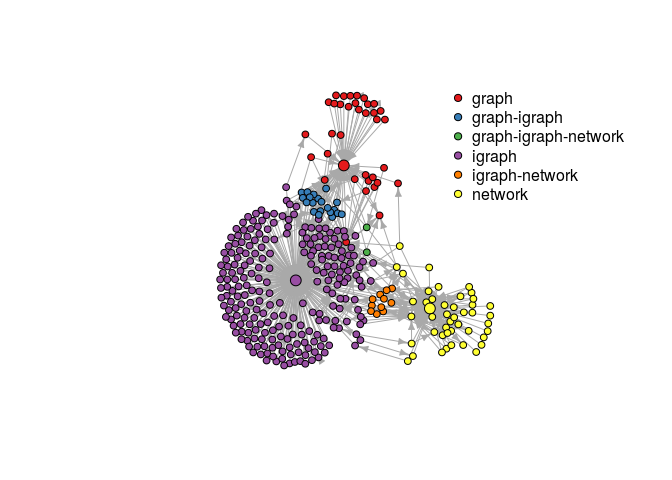
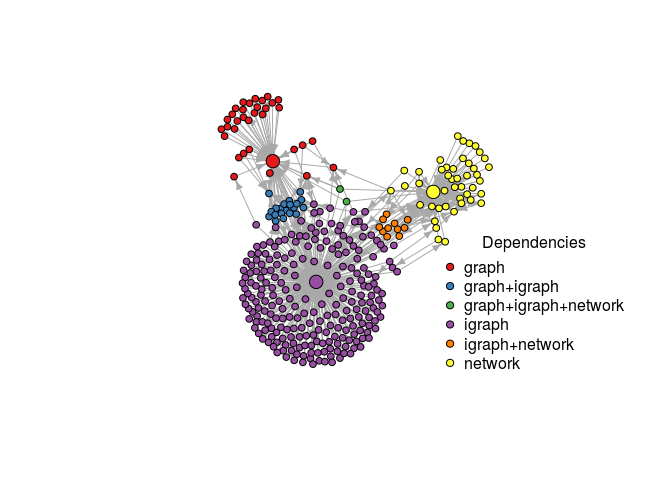
Done with README (fix #1)

Changed region(s): [[0.3125, 0.1875, 0.9375, 0.7812]]

diff --git a/README.md b/README.md
@@ -1,12 +1,12 @@
 Build and analyze network of CRAN packages
 ================
-2016-08-12 16:19:01
+2016-08-12 16:57:01
 
 [![Build Status](https://travis-ci.org/mbojan/pkgnet.png?branch=master)](https://travis-ci.org/mbojan/pkgnet) [![Build Status](https://ci.appveyor.com/api/projects/status/8jwpc9dn34xll00p?svg=true)](https://ci.appveyor.com/project/mbojan/pkgnet) [![rstudio mirror downloads](http://cranlogs.r-pkg.org/badges/pkgnet?color=2ED968)](http://cranlogs.r-pkg.org/) [![cran version](http://www.r-pkg.org/badges/version/pkgnet)](https://cran.r-project.org/package=pkgnet)
 
-Package `DESCRIPTION` files allows for specifying several types of inter-package relations. These include fields like Depends, Suggests, Enhances etc. This package allows for recovering graph structure based on these relations. Network representation of R repositories enables the user to explore the interconnected space of available R functionality while the developers or repository maintainers can quickly scan package forward and reverse dependencies.
+Package `DESCRIPTION` files allows for specifying several types of inter-package relations. These include fields like Depends, Suggests, Enhances etc. This package allows for recovering graph structure based on these relations. Network representation of R repositories enables the user to explore the interconnected space of available R functionality while the developers or repository maintainers can scan package forward and reverse dependencies etc.
 
-The main function `pkgnet` creates an igraph object of packages available in specified repository.
+The main function `pkgnet` creates an igraph object of packages available in specified repository containing all other fields from `available.packages` as vertex and edge attributes.
 
 Examples
 ========
@@ -21,13 +21,13 @@ g <- pkgnet("cran")
 summary(g)
 ```
 
-    ## IGRAPH DN-- 9186 47045 -- 
+    ## IGRAPH DN-- 9186 47048 -- 
     ## + attr: name (v/c), Version (v/c), Priority (v/c), License (v/c),
     ## | License_is_FOSS (v/c), License_restricts_use (v/c), OS_type
     ## | (v/c), Archs (v/c), MD5sum (v/c), NeedsCompilation (v/c), File
     ## | (v/c), Repository (v/c), type (e/c)
 
-Thus we have 9186 packages in total. This however includes also packages that are not available on CRAN, but are mentioned by other packages in their `DESCRIPTION` files. This can be checked using the `Repository` field - there will be `NA` for packages not available:
+Thus today (2016-08-12) we have 9186 packages in total. This however includes also packages that are not available on CRAN, but are mentioned by other packages in their `DESCRIPTION` files. This can be checked using the `Repository` field which will be equal to `NA` for packages not available on CRAN:
 
 ``` r
 sum( is.na(V(g)$Repository) )
@@ -38,24 +38,34 @@ sum( is.na(V(g)$Repository) )
 Graph of packages related to network analysis
 ---------------------------------------------
 
-Let extract a subgraph of packages depending on one of the packages providing facilities to store and process network data ("graph", "igraph", "network", "networkDynamic").
+Let extract a subgraph of packages depending (`Depends`, `Imports`, or `Suggests`) on one of the packages providing facilities to store and process network data ("graph", "igraph", "network", "networkDynamic").
 
 Get the neighborhoods and make the graph:
 
 ``` r
+# Seed packages
 seeds <- c("igraph", "network", "graph")
-n <- neighborhood(g, 1, V(g)[ name %in% seeds ], mode="in" )
-sg <- simplify( induced.subgraph(g, unique(unlist(n)) ) )
+
+# Only dependence arcs
+depnet <- delete.edges(g, E(g)[ !(type %in% c("Depends", "Imports", "Suggests")) ])
+
+# list of package names
+pkg_names <- ego(depnet, 1, V(depnet)[ name %in% seeds ], mode="in" )
+sg <- simplify( induced_subgraph(depnet, unique(unlist(pkg_names))) )
 summary(sg)
 ```
 
-    ## IGRAPH DN-- 346 650 -- 
+    ## IGRAPH DN-- 344 563 -- 
     ## + attr: name (v/c), Version (v/c), Priority (v/c), License (v/c),
     ## | License_is_FOSS (v/c), License_restricts_use (v/c), OS_type
     ## | (v/c), Archs (v/c), MD5sum (v/c), NeedsCompilation (v/c), File
     ## | (v/c), Repository (v/c)
 
-Plot it. Colors show which of the "seed" packages a given package depends on:
+Plot it such that:
+
+-   Arcs go "upstream"
+-   Nodes for seed packages are larger
+-   Colors show which of the "seed" packages a given package depends on
 
 ``` r
 set.seed(2992)
@@ -65,13 +75,13 @@ xy <- layout.fruchterman.reingold(sg)
 
 # Colors
 d <- distances(sg, to=V(sg)[ name %in% seeds], mode="out")
-x <- apply(d, 1, function(x) paste(sort(colnames(d)[x == min(x)]), collapse="-"))
+x <- apply(d, 1, function(x) paste(sort(colnames(d)[x == min(x)]), collapse="+"))
 pal <- RColorBrewer::brewer.pal(length(unique(x)), "Set1")
 cols <- pal[ match(x, sort(unique(x)))]
 
 # Plot
 plot(sg, 
-     vertex.size=ifelse( V(sg)$name %in% seeds, 8, 5),
+     vertex.size=ifelse( V(sg)$name %in% seeds, 10, 5),
      vertex.color=cols,
      layout=xy, 
      vertex.label.color="black",
@@ -80,7 +90,8 @@ plot(sg,
      vertex.label=NA,
      margin=0
      )
-legend("topright",
+legend("bottomright",
+       title="Dependencies",
        sort(unique(x)),
        pch=21,
        pt.bg=pal,
